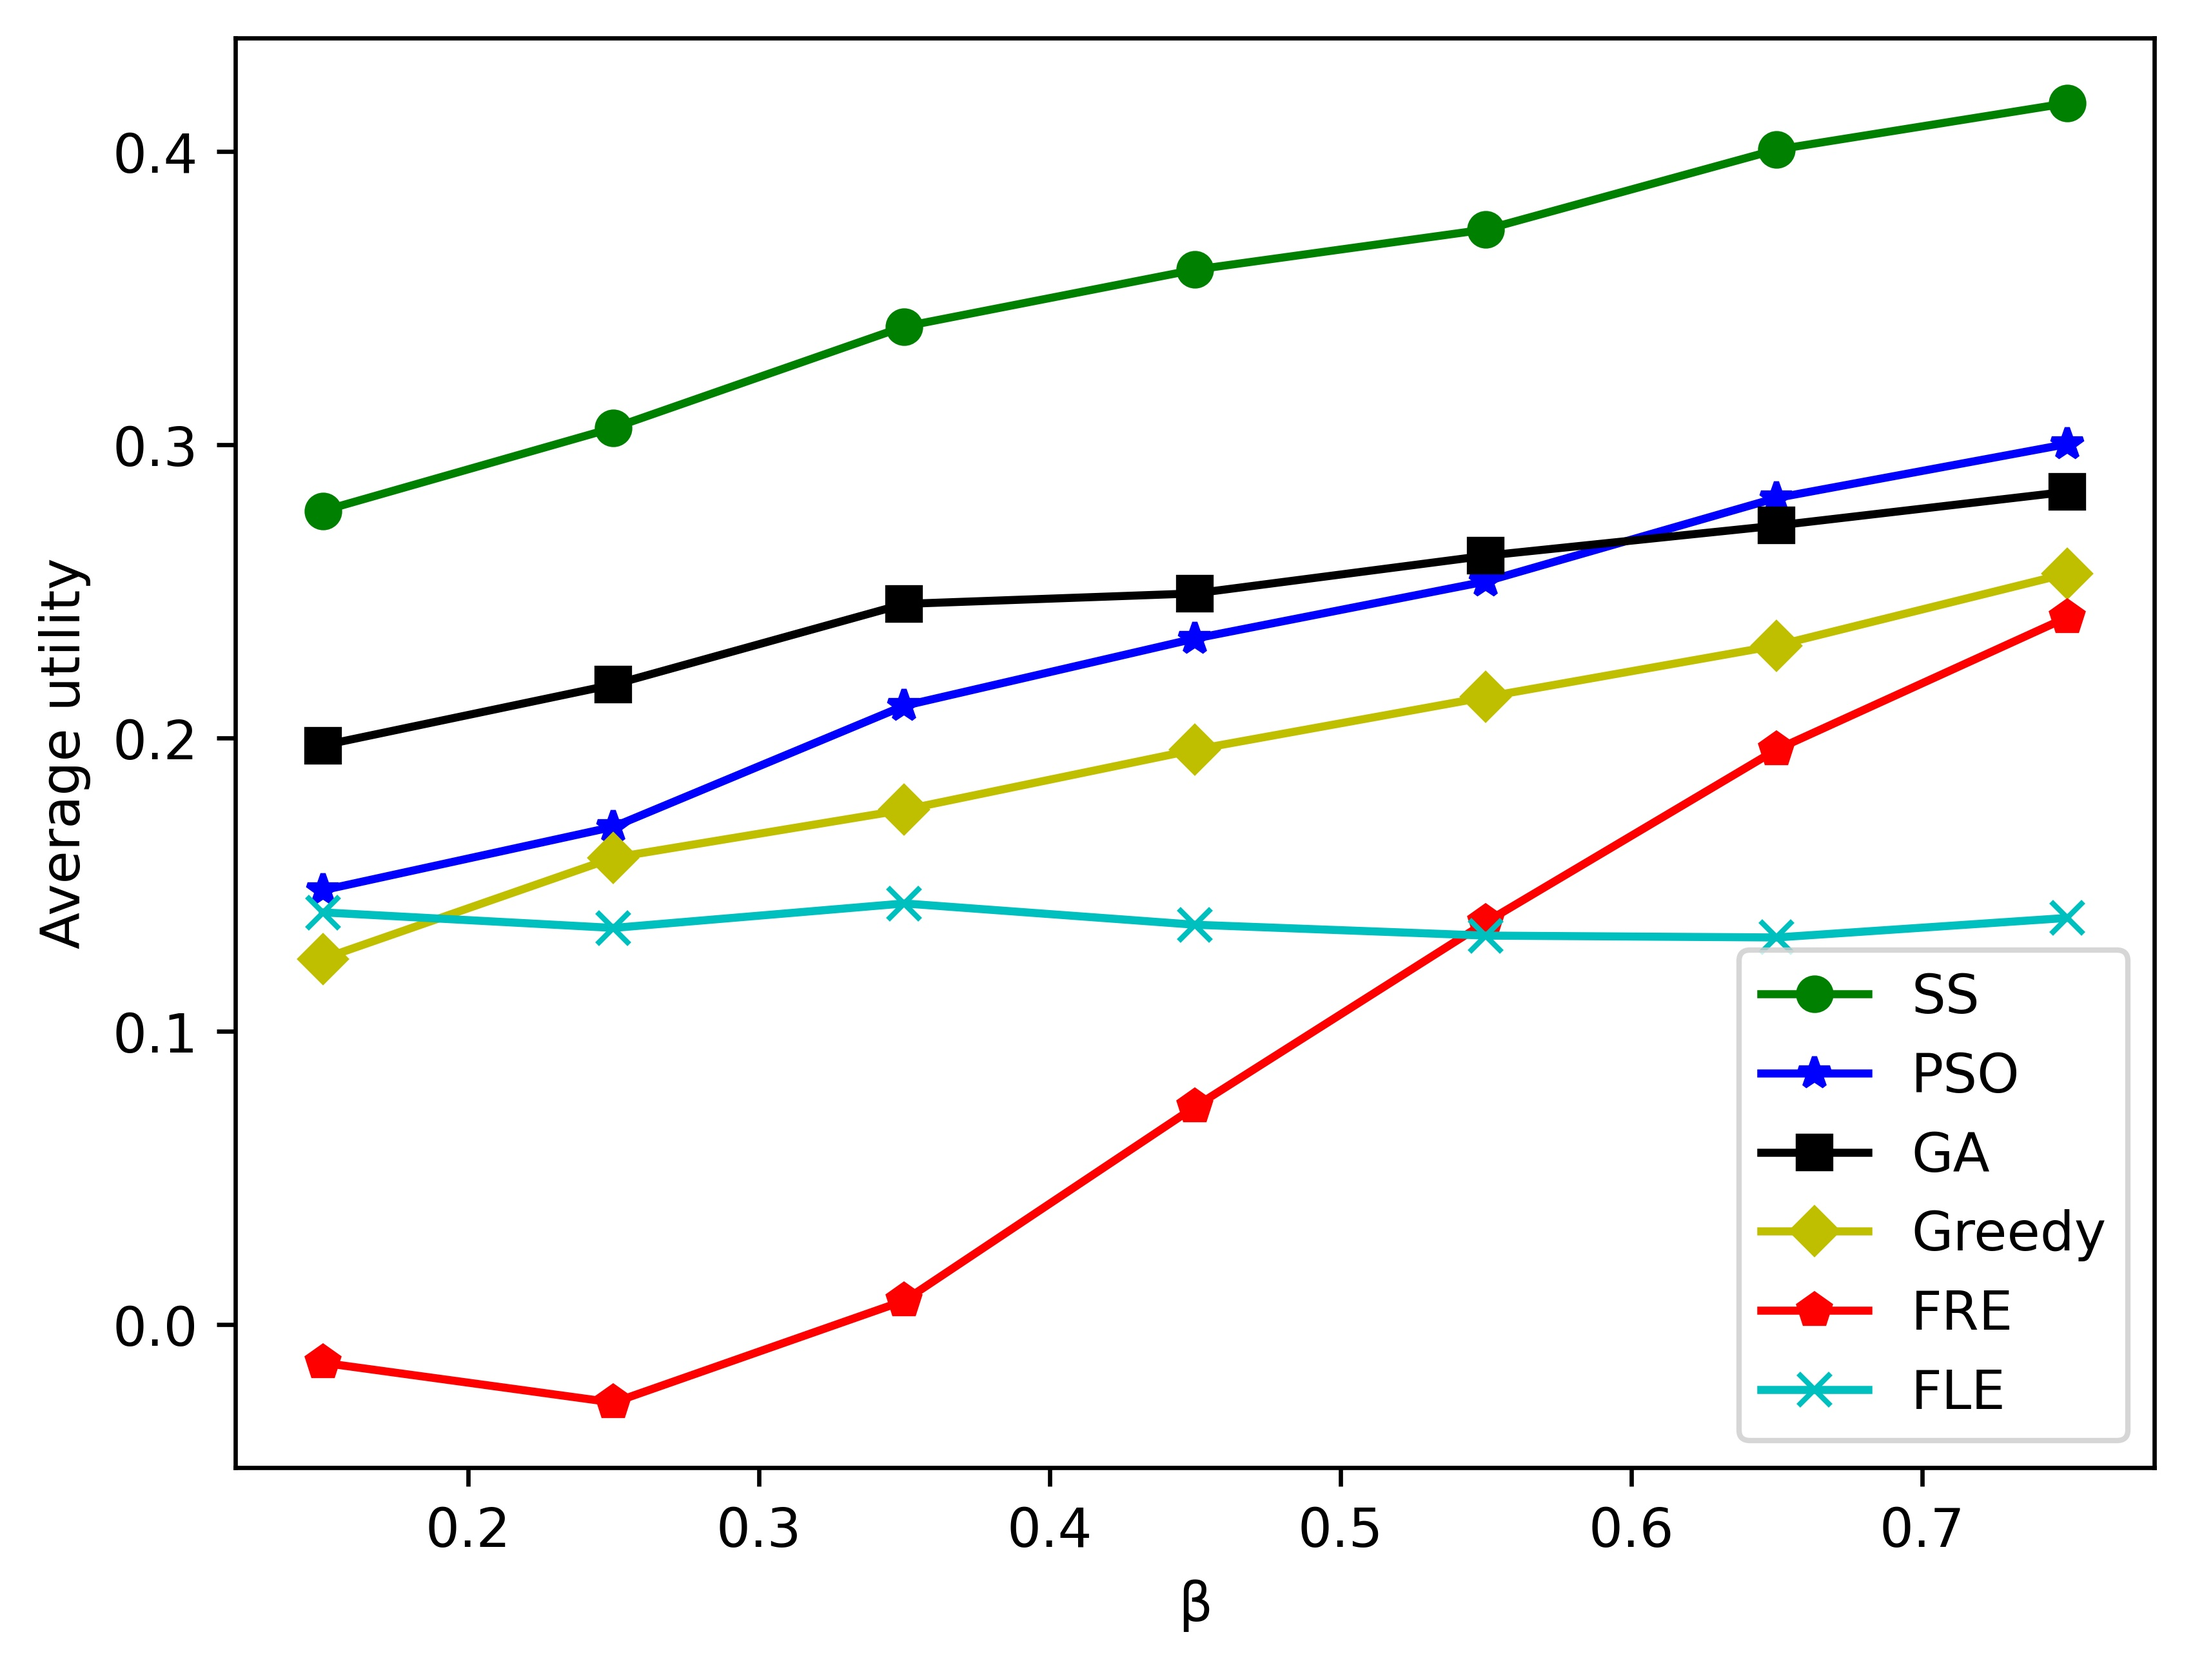
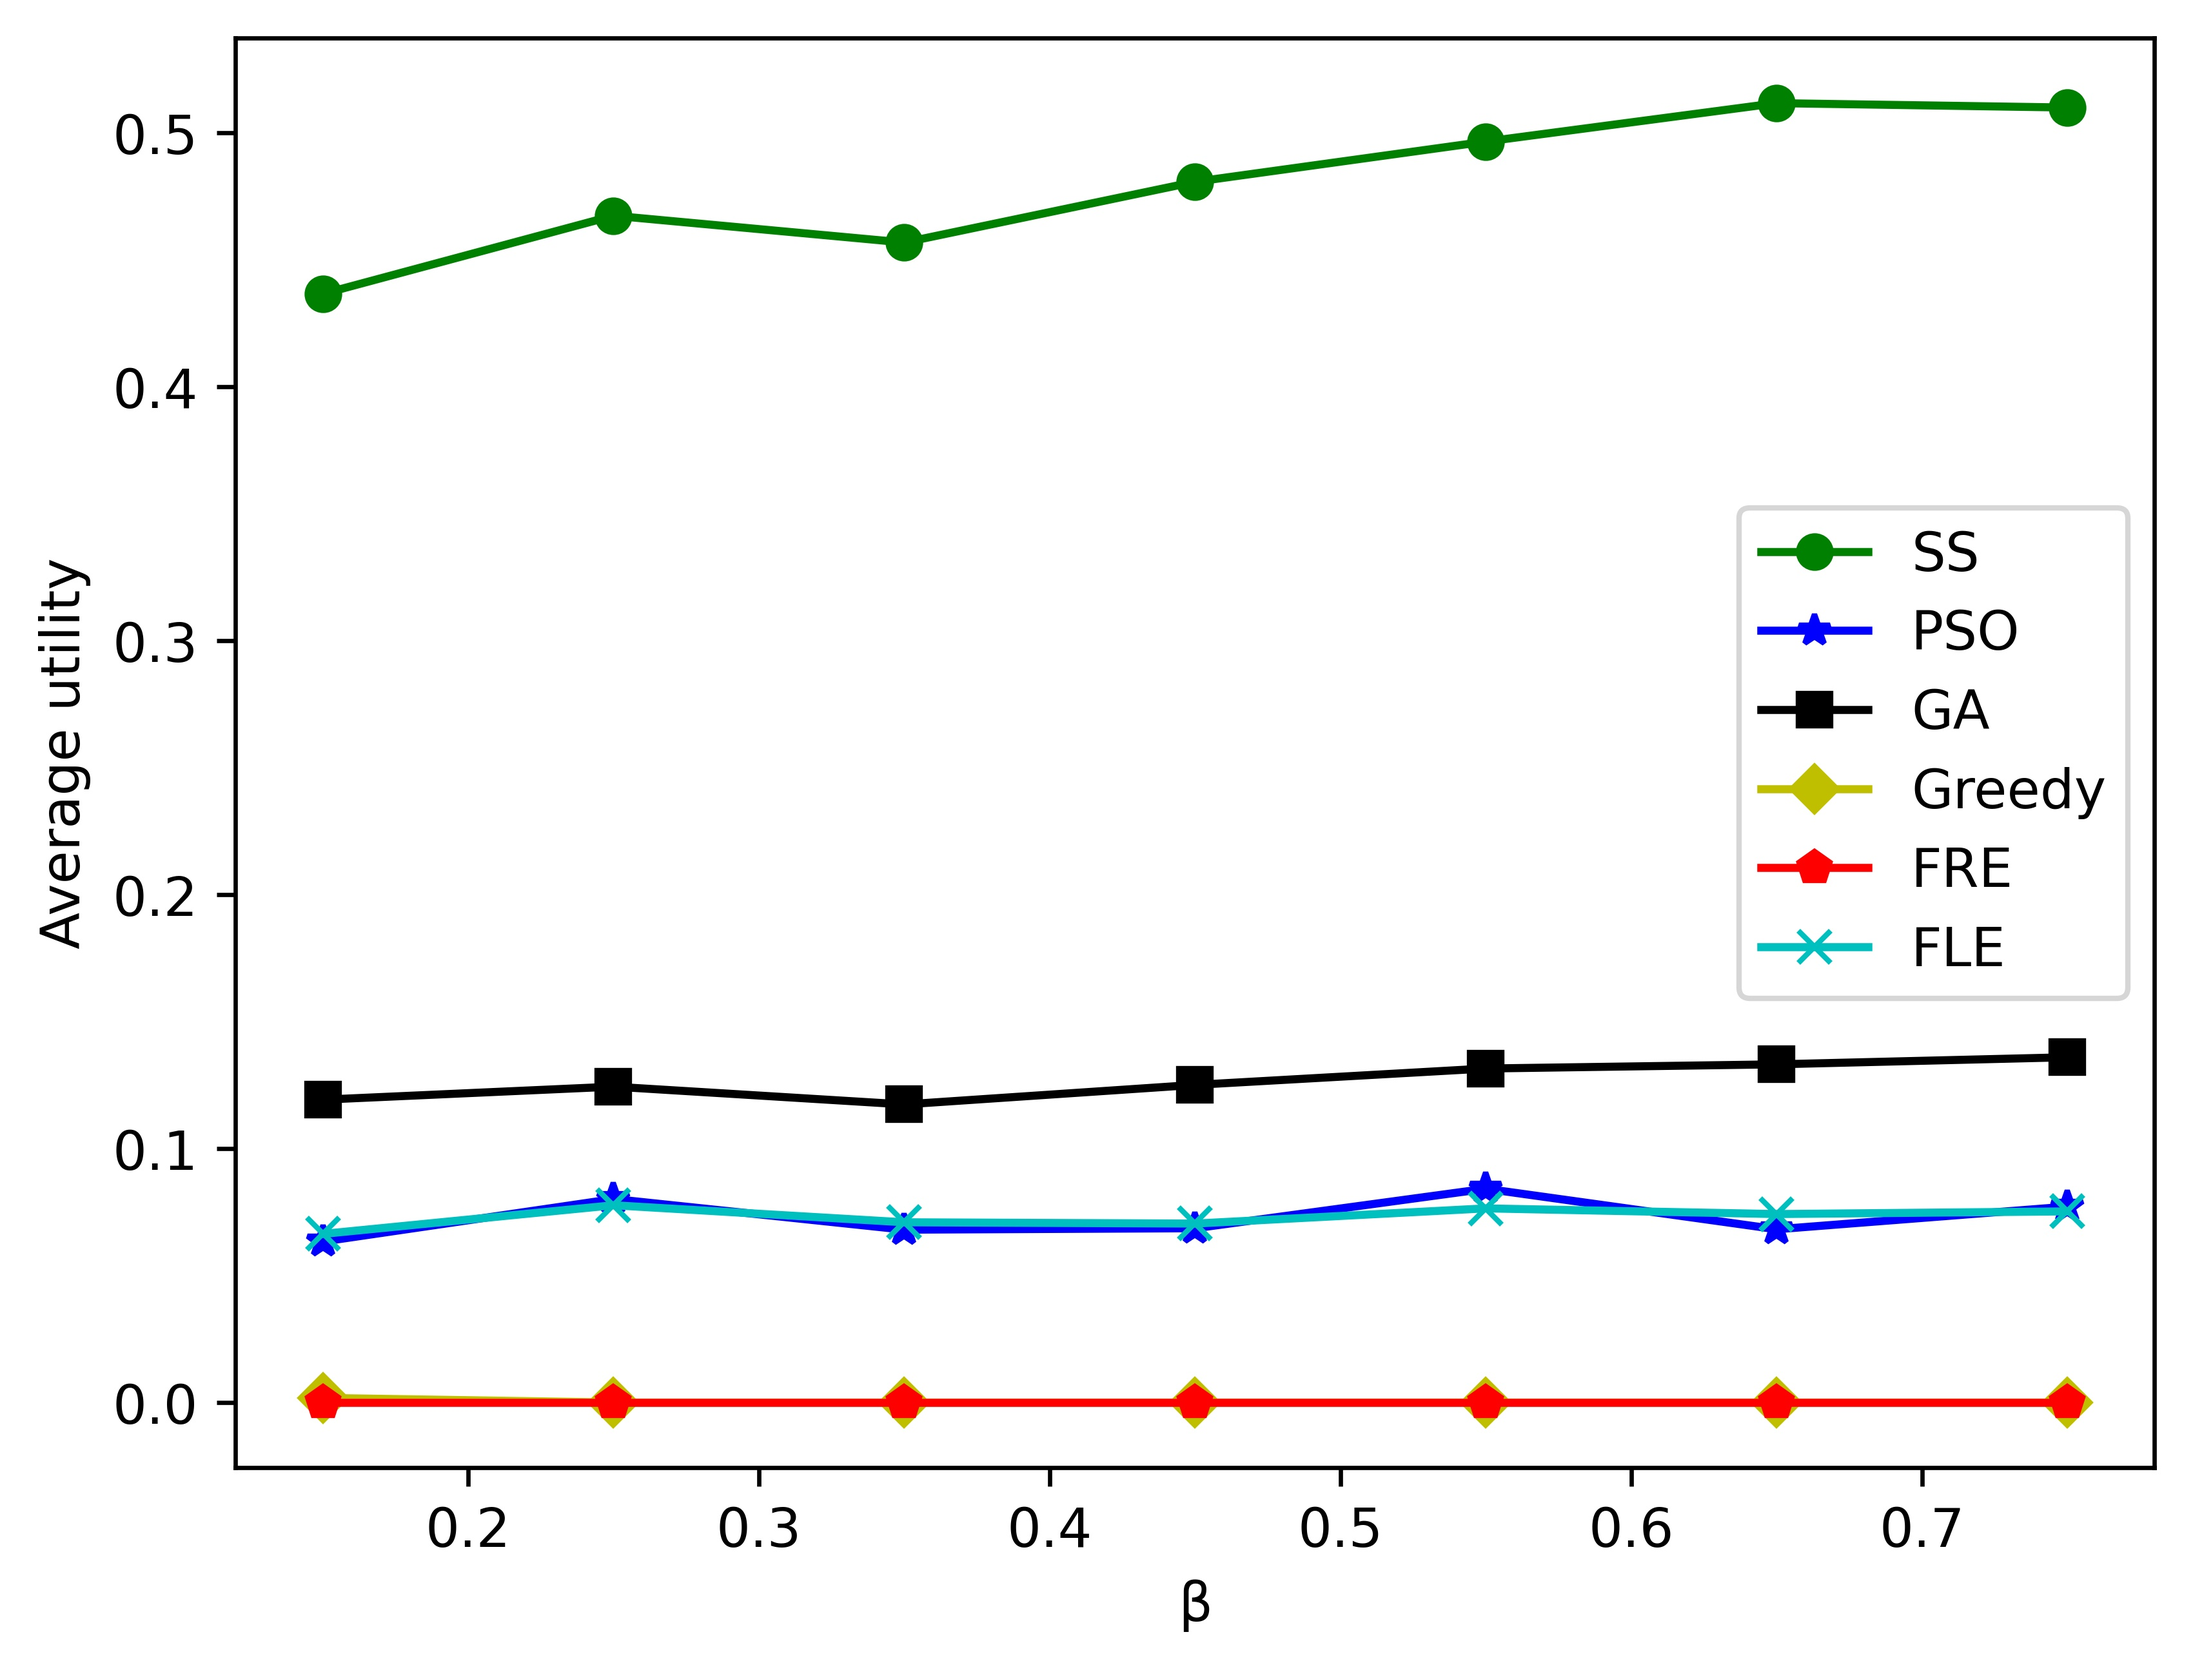
123456

diff --git a/UCD.py b/UCD.py
@@ -2,12 +2,11 @@ import matplotlib.pyplot as plt
 import numpy as np
 from math import log2
 
-users=40
-B=1
+users=10
+B=3
 #B=0.3
 N=1e-10
-F=10
-avg=0.1
+F=12
 num=10
 x_num=7
 MEC=4
@@ -16,44 +15,61 @@ def gen_task():
 	tasks=dict()
 	for i in range(users):
 		buf=dict()
-		buf['a']=np.random.uniform(100,1000)*2/1000
-		buf['d']=buf['a']
-		buf['fl']=np.random.uniform(1.5,2.5)
-		buf['Tm']=np.random.uniform(avg,1)
-		buf['pri']=np.random.uniform(0.1,1)
+		buf['a']=np.random.uniform(100,1000)/1000
+		buf['d']=np.random.uniform(1000,2000)/1000
+		buf['fl']=np.random.uniform(1,2)
+		buf['Tm']=np.random.uniform(1,2)
+		buf['pri']=np.random.uniform(0.5,1)
 		buf['SINR']=(10**np.random.uniform(4,10))*7.5/N
 		tasks[i]=buf
 	return tasks
 
 def caltech(tasks, xi):
 	reward=0
+	en=list()
+	for i in range(users):
+		en.append(i%MEC+1)
+
 	b=list()
+	f=list()
 
 	#sum of sqrt
-	ss=0
+	ss=[0]*(MEC+1)
 	for k,v in tasks.items():
-		ss+=(xi[k]*v['a']*v['pri']/log2(1+v['SINR']))**0.5
+		ss[0]+=(xi[k]*v['a']*v['pri']/v['Tm']/log2(1+v['SINR']))**0.5
+
+	for k,v in tasks.items():
+		ss[en[k]]+=(xi[k]*v['d']*v['pri']/v['Tm'])**0.5
 
 	#cal lagrange b
 	for k,v in tasks.items():
-		if ss!=0:
-			b.append(((xi[k]*v['a']*v['pri']/log2(1+v['SINR']))**0.5)*B/ss)
+		if ss[0]>0:
+			b.append( ((xi[k]*v['a']*v['pri']/v['Tm']/log2(1+v['SINR']))**0.5)*B/ss[0] )
 		else:
 			b.append(0)
 
+	#cal lagrange f
+	for k,v in tasks.items():
+		if ss[en[k]]>0:
+			f.append( ((xi[k]*v['d']*v['pri']/v['Tm'])**0.5)*F/ss[en[k]] )
+		else:
+			f.append(0)
+
 	for k,v in tasks.items():
 		if xi[k]!=0:
-			t=max( (1-xi[k])*v['d']/v['fl'], xi[k]*v['a']/b[k]/log2(1+v['SINR']))
+			t=max( (1-xi[k])*v['d']/v['fl'], xi[k]*v['a']/b[k]/log2(1+v['SINR']) + xi[k]*v['d']/f[k] )
 		else:
 			t=(1-xi[k])*v['d']/v['fl']
+
 		if t<v['Tm']:
-			reward+=v['pri']*(1-t/(v['d']) )
+			reward+=v['pri']*(1-t/(v['Tm']) )
+		else:
+			reward-=v['pri']*0.5
 
 	return reward/users
 
-def assign(decision):
-
-	return
+#def optimal(tasks):
+#	return
 
 def iterative(tasks):
 	xi=list()
@@ -108,87 +124,84 @@ def iterative(tasks):
 def iterative2(tasks):
 	xi=list()
 	b=[0]*users
-	reserved_b=[0]*users
-	for e in tasks.values():
-		xi.append( 1-min(1,e['Tm']*e['fl']/e['d']) )
-	
-	tasks=sorted(tasks.items(), key=lambda kv: -kv[1]['pri']-kv[1]['pri']/(kv[1]['a']/kv[1]['Tm']/log2(1+kv[1]['SINR'])))
+	f=[0]*users
+	en=list()
+	for i in range(users):
+		en.append(i%MEC+1)
 
-	#occupied bandwidth
-	remaining=B
-	for e in tasks:
-		#allocate minimum bandwidth
-		bi=xi[e[0]]*e[1]['a']/e[1]['Tm']/log2(1+e[1]['SINR'])
-		if remaining-bi<0:
-			break
-		else:
-			remaining-=bi
-			reserved_b[e[0]]=bi
+	for e in tasks.values():
+		xi.append( 1-min(1, e['Tm']*e['fl']/e['d']) )
 
 	#sum of sqrt
-	ss=0
-	for e in tasks:
-		ss+=(xi[e[0]]*e[1]['a']*e[1]['pri']/log2(1+e[1]['SINR']))**0.5
+	ss=[0]*(MEC+1)
+	for k,v in tasks.items():
+		ss[0]+=(v['a']*v['pri']/v['Tm']/log2(1+v['SINR']))**0.5
 
-	for e in tasks:
-		b[e[0]]=reserved_b[e[0]] + ((xi[e[0]]*e[1]['a']*e[1]['pri']/log2(1+e[1]['SINR']))**0.5)*remaining/ss
+	for k,v in tasks.items():
+		ss[en[k]]+=(v['d']*v['pri']/v['Tm'])**0.5
+
+	#cal lagrange b
+	for k,v in tasks.items():
+		if ss[0]>0:
+			b[k]=(((v['a']*v['pri']/v['Tm']/log2(1+v['SINR']))**0.5)*B/ss[0])
+
+	#cal lagrange f
+	for k,v in tasks.items():
+		if ss[en[k]]!=0:
+			f[k]=((v['d']*v['pri']/v['Tm'])**0.5)*F/ss[en[k]]
 
 	i=0
 	while i<10:
 		#update x
-		for e in tasks:
-			if b[e[0]]!=0:
-				xi[e[0]]=e[1]['d']/e[1]['fl']/( e[1]['a']/(b[e[0]]*log2(1+e[1]['SINR'])) + e[1]['d']/e[1]['fl'] )
-			else:
-				xi[e[0]]=0
-
-		reserved_b=[0]*users		
-
-		#occupied bandwidth
-		remaining=B
-		for e in tasks:
-			#allocate minimum bandwidth
-			bi=xi[e[0]]*e[1]['a']/e[1]['Tm']/log2(1+e[1]['SINR'])
-			if remaining-bi<0:
-				break
-			else:
-				remaining-=bi
-				reserved_b[e[0]]=bi
+		for k,v in tasks.items():
+			xi[k]=v['d']/v['fl']/( v['a']/(b[k]*log2(1+v['SINR'])) + v['d']/f[k] + v['d']/v['fl'] )
 
 		#sum of sqrt
-		ss=0
-		for e in tasks:
-			ss+=(xi[e[0]]*e[1]['a']*e[1]['pri']/log2(1+e[1]['SINR']))**0.5
+		ss=[0]*(MEC+1)
+		for k,v in tasks.items():
+			ss[0]+=(xi[k]*v['a']*v['pri']/v['Tm']/log2(1+v['SINR']))**0.5
 
-		#update b
-		for e in tasks:
-			b[e[0]]=reserved_b[e[0]] + ((xi[e[0]]*e[1]['a']*e[1]['pri']/log2(1+e[1]['SINR']))**0.5)*remaining/ss
+		for k,v in tasks.items():
+			ss[en[k]]+=(xi[k]*v['d']*v['pri']/v['Tm'])**0.5
+
+		#cal lagrange b
+		for k,v in tasks.items():
+			if ss[0]>0:
+				b[k]=(((xi[k]*v['a']*v['pri']/v['Tm']/log2(1+v['SINR']))**0.5)*B/ss[0])
+
+		#cal lagrange f
+		for k,v in tasks.items():
+			if ss[en[k]]!=0:
+				f[k]=((xi[k]*v['d']*v['pri']/v['Tm'])**0.5)*F/ss[en[k]]
+
 		i+=1
 
-	reward=0
-	for e in tasks:
-		if xi[e[0]]!=0:
-			t=max( (1-xi[e[0]])*e[1]['d']/e[1]['fl'], xi[e[0]]*e[1]['a']/b[e[0]]/log2(1+e[1]['SINR']))
-		else:
-			t=(1-xi[e[0]])*e[1]['d']/e[1]['fl']
-		if t<e[1]['Tm']:
-			reward+=e[1]['pri']*(1-t/e[1]['Tm'])*10
-		#else:
-		#	reward-=e[1]['pri']*10
-
-	return reward/users/10
+	return xi
 
 def greedy(tasks):
 	xi=[0]*users
+	tasks_s=sorted(tasks.items(), key=lambda kv: kv[1]['pri'])
+
+	for e in tasks_s:
+		buf=xi.copy()
+		buf[e[0]]=1
+		if caltech(tasks, buf)>caltech(tasks,xi):
+			xi=buf
+		else:
+			break
+	return xi
+
+def greedy2(tasks):
+	xi=[0]*users
 	b=[0]*users
 
-	tasks_s=sorted(tasks.items(), key=lambda kv: -kv[1]['pri'])
+	tasks_s=sorted(tasks.items(), key=lambda kv: -kv[1]['pri']/(kv[1]['a']/kv[1]['Tm']/log2(1+kv[1]['SINR'])))
 
 	#occupied bandwidth
 	remaining=B
 	for e in tasks_s:
 		#allocate bandwidth
-		bi=1*e[1]['a']/e[1]['Tm']/log2(1+e[1]['SINR'])
+		bi=2*e[1]['a']/e[1]['Tm']/log2(1+e[1]['SINR'])
 		if remaining-bi<0:
 			pass
 		else:
@@ -209,12 +222,15 @@ def PSO(tasks):
 		decision.append([])
 		velocity.append([])
 		for j in range(users):
-			if np.random.rand()<10/users:
+			if np.random.rand()<15/users:
 				decision[i].append(np.random.rand())
 				velocity[i].append(np.random.uniform(0.5,0.5))
 			else:
 				decision[i].append(0)
 				velocity[i].append(0)
+
+		#for j in range(users):
+		#	decision[i].append(np.random.randint(1,MEC+1))
 
 	#each particle's history
 	history=list()
@@ -240,7 +256,7 @@ def PSO(tasks):
 			cou+=1
 		else:
 			cou=0
-		
+
 		#update velocity & position
 		for i in range(particles):
 			for j in range(users):
@@ -251,7 +267,7 @@ def PSO(tasks):
 				if decision[i][j]<0:
 					decision[i][j]=0
 
-	print(glob_best)
+	#print(glob_best)
 	return glob_best[0]
 
 def GA_x(tasks):
@@ -457,11 +473,11 @@ def test():
 	for i in range(num):
 		tasks=gen_task()
 		perform[0]+=caltech(tasks, [0]*users)/num
-		perform[1]+=caltech(tasks, [1]*users)/num
+		perform[1]+=caltech(tasks, np.random.randint(1,MEC+1,users) )/num
 		perform[2]+=caltech(tasks, greedy(tasks))/num
 		perform[3]+=caltech(tasks, GA_x(tasks))/num
 		perform[4]+=caltech(tasks, PSO(tasks))/num
-		perform[5]+=iterative(tasks)/num
+		perform[5]+=caltech(tasks, iterative2(tasks))/num
 
 	return perform
 
@@ -550,8 +566,8 @@ def draw_alpha():
 	plt.savefig('alpha.jpg', dpi = 600, bbox_inches='tight')
 	plt.show()
 
-draw_alpha()
-#gen_task()
+draw_users()
+#print(test())
 
 #2/24: iterative/greedy:1.08, iterative/GA:1.18 ,
 
@@ -562,3 +578,5 @@ draw_alpha()
 #4/7重新開工
 
 #4/8畫各alpha下的QoS值 B=0.1~1.3 QoS=0.3~0.5
+
+#7/30重新開工 更新alpha.jpg與多MEC
